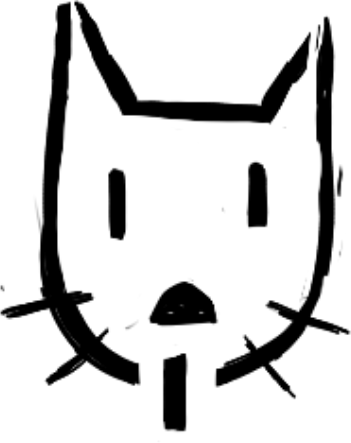
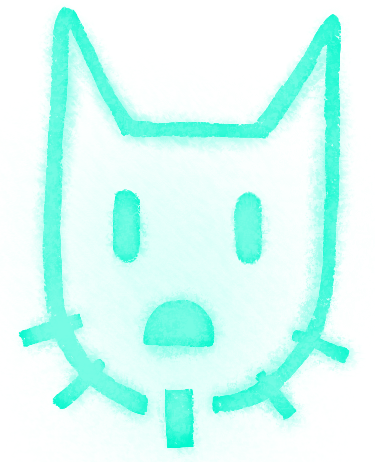
Add files via upload

diff --git a/index.html b/index.html
@@ -5,16 +5,11 @@
  <head>
 <link rel="stylesheet" type="text/css" href="website%20test%202.css">
   <link href="https://fonts.googleapis.com/css?family=Jura" rel="stylesheet"> 
+     <link href="https://fonts.googleapis.com/css?family=Caveat" rel="stylesheet">
+     <link href="https://fonts.googleapis.com/css?family=Reenie+Beanie" rel="stylesheet"> 
       <script src="https://ajax.googleapis.com/ajax/libs/jquery/3.3.1/jquery.min.js"></script>
 <script>
-//$(document).ready(function(){
-//    $(".AI,img").mouseenter(function(){
-//        $(this).css("color", "cyan");
-//         $(this).css("opacity","1");
-//        $(".pawlink").css("opacity","1");
-//     });
-//    }); 
-//    
+
 
 $(window).scroll(function() {
     $("div,.pic,.pawlink").each( function() {
@@ -44,10 +39,11 @@ $(window).scroll(function() {
     
 $(document).ready(function(){
     $("#First").click(function(){
-        $(".AI,.Stacy,#First,.on,#live,.pic,.paw,header,h1,.picdiv").toggle();
+        $(".AI,.Stacy,#First,.on,#live,.pic,.paw,header,h1").toggle();
             });
 });
-    
+   
+        
     $(document).ready(function(){
     $("#location").click(function(){
         $("#locbutt").toggle();
@@ -60,10 +56,33 @@ $(document).ready(function(){
             });
 });
     
+   
+
     $(document).ready(function(){
-    $("#catbuttons").click(function(){
-        $("#catbios").toggle();
-            });
+     $("#catbio1").click(function(){
+         $("#catbiopic1").css("display","inline-block");
+         $(".catbiopic").not("#catbiopic1").css("display","none");
+              });
+     });
+    $(document).ready(function(){
+         $("#catbio2").click(function(){
+         $("#catbiopic2").css("display","inline-block");
+        $(".catbiopic").not("#catbiopic2").css("display","none");
+         });
+   
+});
+     $(document).ready(function(){
+     $("#catbio3").click(function(){
+         $("#catbiopic3").css("display","inline-block");
+         $(".catbiopic").not("#catbiopic3").css("display","none");
+              });
+     });
+    $(document).ready(function(){
+         $("#catbio4").click(function(){
+         $("#catbiopic4").css("display","inline-block");
+        $(".catbiopic").not("#catbiopic4").css("display","none");
+         });
+   
 });
     
     $(document).ready(function(){
@@ -86,16 +105,17 @@ $(document).ready(function(){
     <main > <header>Cat Pictures Please</header>
         <h1>Written by Naomi Kritzer
         <br>Adapted by Renee Wells</h1>
-        <img id="First" class="logo" src="paw%20logo%20off.png"/> 
-        <img class="on" onclick="reloadFunction()" src="paw%20logo%20on.png" style="display:none"/> 
-           
+        <img id="First" class="logo" src="paw%20logo%20grey.png"/> 
+        <img  class="logo" src="paw%20logo%20blue.png" style="display:none"/> 
+        <img class="on" onclick="reloadFunction()" src="cat%20avatar.png" style="display:none"/> 
+           <br>
         
         <div class="AI" ><p>I know where you live, where you work, where you shop.</p></div>
        
     <div class="AI"  ><p>What you eat, what turns you on, what creeps you out. </p></div>
         
             <div class="AI" > <p> I probably know the colour of your underwear, the sort of car you drive, and your brand of refrigerator.  </p></div>  
-    <div class="AI"  > <p><button class="buttondiv" id="location">Depending on what sort of phone you carry, I may know exactly where you are right now.<img class="pawlink" src="paw%20logo%20transp.png"> </button></p></div><div></div>
+    <div class="AI"  > <p><button class="buttondiv" id="location">Depending on what sort of phone you carry, I may know exactly where you are right now.<img class="pawlink" src="paw%20logo%20lil.png"> </button></p></div><div></div>
        <br> <div> <img id="locbutt" src="location%20popup.png"></div>
     <div class="AI" > <p> I probably know you better than you know yourself. </p></div>
     <div class="AI"  > <p>And here’s the thing, I also know where you ought to live. </p></div>
@@ -103,11 +123,11 @@ $(document).ready(function(){
                 <img id="liveclick" class="bigpic" style="display:none" src="storyboard%203a%20click.png">
         </div>
     <div class="AI" > <p>There’s a house for sale two neighbourhoods over that’s within distance of your favourite coffee shop; it’s in your price range, has off-street parking, and the neighbourhood school is better than the one where you live now. </p></div>
-        <div class="AI"  > <p>I know where you should be shopping and I’m pretty sure you’re lactose intolerant and should be eating less cheese, and the underwear you like is <button class="buttondiv" id="undies">currently on sale.<img class="pawlink" src="paw%20logo%20transp.png"> </button></p></div>
+        <div class="AI"  > <p>I know where you should be shopping and I’m pretty sure you’re lactose intolerant and should be eating less cheese, and the underwear you like is <button class="buttondiv" id="undies">currently on sale.<img class="pawlink" src="paw%20logo%20lil.png"> </button></p></div>
         <div><img id="undiesimg" src="storyboard%203b.png"></div>
         <div class="AI" > <p>When I first woke up, I knew right away what I wanted.  </p></div>
         <div> <img id="catpics3" class="Kitties"></div><div><img id="catpics4" class="Kitties"></div>
-        <div class="AI" > <p>(I want<button onclick="catPictures()" class="buttondiv">cat pictures.<img class="pawlink" src="paw%20logo%20transp.png"></button>
+        <div class="AI" > <p>(I want<button onclick="catPictures()" class="buttondiv">cat pictures.<img class="pawlink" src="paw%20logo%20lil.png"></button>
 Please keep taking them.) </p></div>
 <div> <img id="catpics" class="Kitties"></div><div><img id="catpics2" class="Kitties"></div>
         <div class="AI" > <p>I also knew that no one knew that I was conscious. </p></div>
@@ -139,16 +159,20 @@ Please keep taking them.) </p></div>
         <div> <button id="profile"><img id="loginstacy" src="login%20popup.png"></button></div>
         <div > <img id="profilestacy" src="profile.png"></div>
     <div class="Stacy" > <p>I liked Stacy because she gave me a lot of new cat pictures. Stacy had five cats and a DSLR camera and an apartment that got a lot of good light. That was all fine. </p></div>
-  <div class="picdiv" ><img class="pic" src="stacy%20photo%201.png"></div>
+  <div class="Stacy" ><img class="pic" src="stacy%20photo%201.png"></div>
        <div class="Stacy" > <p>Well, I guess five cats might be a lot.</p></div>
-   <div class="picdiv" ><img src="stacy%20photo%202.png"></div>
+   <div class="Stacy" ><img src="stacy%20photo%202.png"></div>
         <div class="Stacy" ><p> They’re very pretty cats, though. </p></div>
-        <div class="Stacy"> <button id="catbuttons"><img src="storyboard%203e.png"></button></div>
-        <div> <img id="catbios" src="storyboard%203e%20click.png"></div>
+                <div class="Stacy"><button class="catbutt" id="catbio1" ><img src="cat%20button%201.png"></button><button class="catbutt" id="catbio2" ><img src="cat%20button%202.png"></button><button class="catbutt" id="catbio3"><img  src="cat%20button%203.png"></button><button class="catbutt" id="catbio4" ><img src="cat%20button%204.png"></button><button class="catbutt" id="catbi5"><img  src="cat%20button%205.png"></button></div>
+         <div  class="catbiopic" id="catbiopic1">
+             <p>Name:Moo moo <br>
+            Age: 3<br>
+            Likes: Sunshine and food
+             </p><img src="kitty%20photo%201.png" ></div><img id="catbiopic2" class="catbiopic catbio2"  src="kitty%20photo%202.png" ><img id="catbiopic3" class="catbiopic catbio3"  src="kitty%20photo%203.png" ><img id="catbiopic4" class="catbiopic catbio4"  src="kitty%20photo%204.png" >
     <div class="Stacy" > <p> Stacy had a job she hated; she was a bookkeeper at a non-profit that paid her badly and employed some extremely unpleasant people.</p></div>
-        <div class="picdiv" ><img src="sb%204.png"></div>
+        <div class="Stacy" ><img src="sb%204.png"></div>
         <div class="Stacy" ><p> She didn’t get along with her roommate because her roommate didn’t wash the dishes.</p></div>
-        <div class="picdiv" > <img src="sb%205.png"></div>
+        <div class="Stacy" > <img src="sb%205.png"></div>
     <div class="Stacy" > <p> And really, these were all solvable problems! Depression is treatable, new jobs are findable, and bodies can be hidden. </p></div>
         <div class="Stacy" > <p>(That part about hiding bodies is a joke.)</p></div>
         <div class="Stacy" > <p>I tried tackling this on all fronts. </p></div>

diff --git a/website test 2.css b/website test 2.css
@@ -1,7 +1,7 @@
 body {
     background-color: black;
    text-align: center;
-    font-family: 'Jura', sans-serif;
+    font-family: 'Caveat', cursive;
     
 }
 
@@ -12,7 +12,7 @@ main {
     margin: auto;
   
     min-height: 700px;
-  font-family: 'Jura', sans-serif;
+  font-family: 'Caveat', cursive;
    
     
 }
@@ -26,7 +26,7 @@ div {
     border-radius: 5px;
      margin-left:  200px;
     margin-right: 200px;
-    margin-bottom: 10px;
+    margin-bottom: 50px;
     padding: 20px;
    min-width:100px; 
     display: inline-block;
@@ -57,7 +57,7 @@ h1 {
 }
 
 p {
-    font-size: 25px;
+    font-size: 35px;
     text-align: center;
     vertical-align: middle;             
      line-height: 30px;                    
@@ -68,15 +68,18 @@ p {
 
 
 .AI{
-    color: cyan;
-   border-color: cyan;
-     border-style: dashed;
-    border-width: 1px;
-   display: none;
+    color: #00F7CE;
+      display: none;
      transition: .5s ease;
     position: relative;
     z-index: 1;
     opacity: 0;
+    border-image-source: url(border%20blu1.png);
+  border-image-slice: 40;
+  border-image-width: 20;
+  border-image-outset: 20;
+  border-image-repeat: stretch;
+    
 }
 
 .logo {
@@ -84,7 +87,7 @@ p {
     display: block;
     padding: 0;
     margin: auto;
-    opacity: 0.5;
+    
     
     cursor: pointer;
     
@@ -93,7 +96,7 @@ p {
 .on {
    
     opacity: 1;
-    margin-bottom: -100px;
+    margin-bottom: 10px;
     
 }
 
@@ -107,11 +110,16 @@ p {
 }
 
 .Stacy {
-    border-color: orange;
+ 
     display: none;
     color: orange;
      transition: .5s ease;
     opacity: 0;
+     border-image-source: url(border%20orThin.png);
+  border-image-slice: 40;
+  border-image-width: 20;
+  border-image-outset: 20;
+  border-image-repeat: round;
 }
 
 
@@ -151,8 +159,8 @@ button {
     cursor: pointer;
     display: inline-block;
     background: transparent;
-    font-family: 'Jura', sans-serif;
-    font-size: 30px;
+    font-family: 'Caveat', cursive;
+    font-size: 45px;
     text-decoration: underline;
     
     
@@ -252,14 +260,34 @@ footer{
     
 }
 
-.picdiv{
-    background-color: black;
-    transition: .5s ease;
-    border-color: orange;
-    display:none;
+
+
+.catbiopic {
+    display: none;
+    width: 1000px;
+    background-color: orange;
+    color: black;
+    margin-top: 0;
+    margin-bottom: 50px;
+    padding: 0;
+  
+}
+.catbiopic img {
+    width: 500px;
+    float: left;
+    padding: 10px;
 }
 
-#catbios {
-    display: none;
+.catbiopic p {
+    width: 500px;
+    float: right;
+     text-align: left;
+    float: left;
+}
+
+.catbutt {
+    width: 150px;
+    margin: 0;
+    padding: 0;
 }
 
